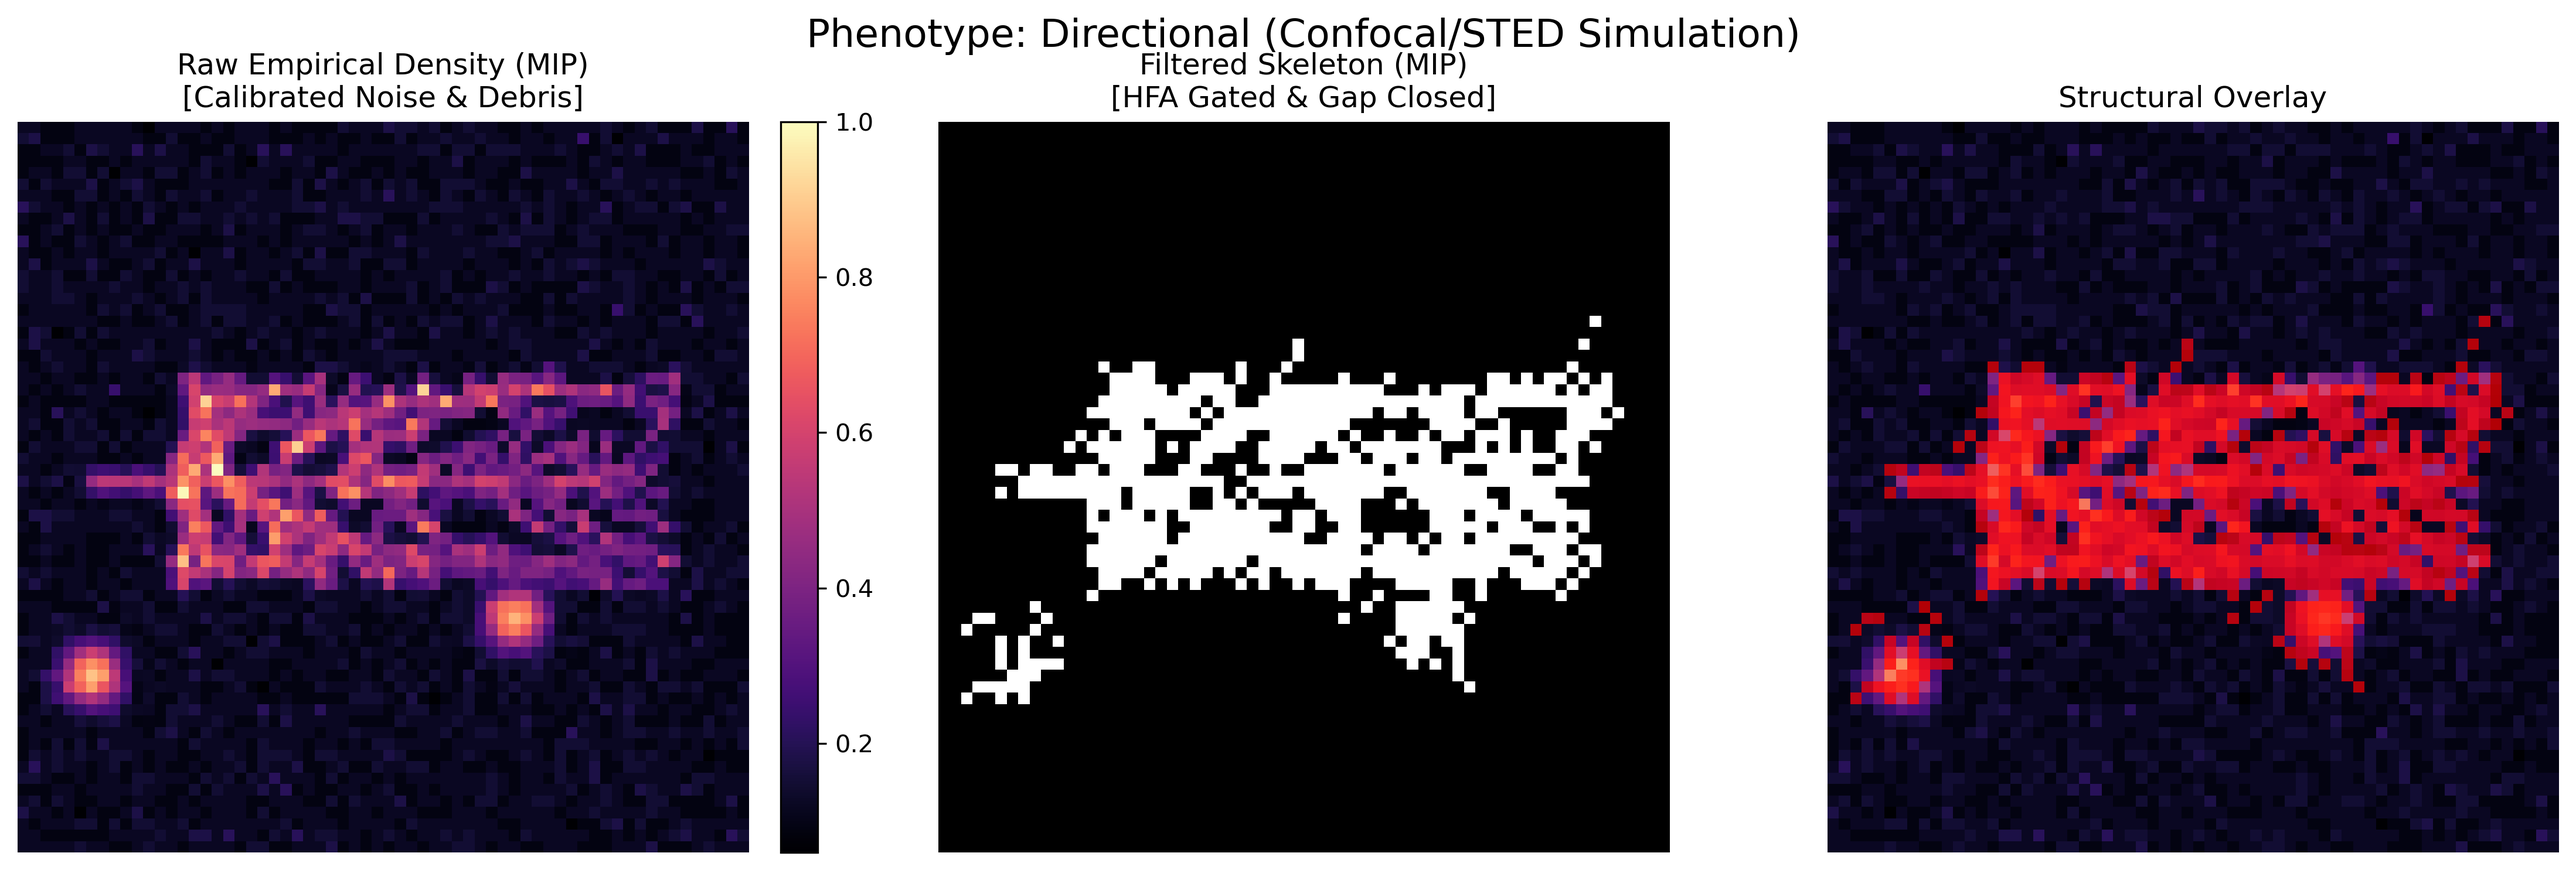
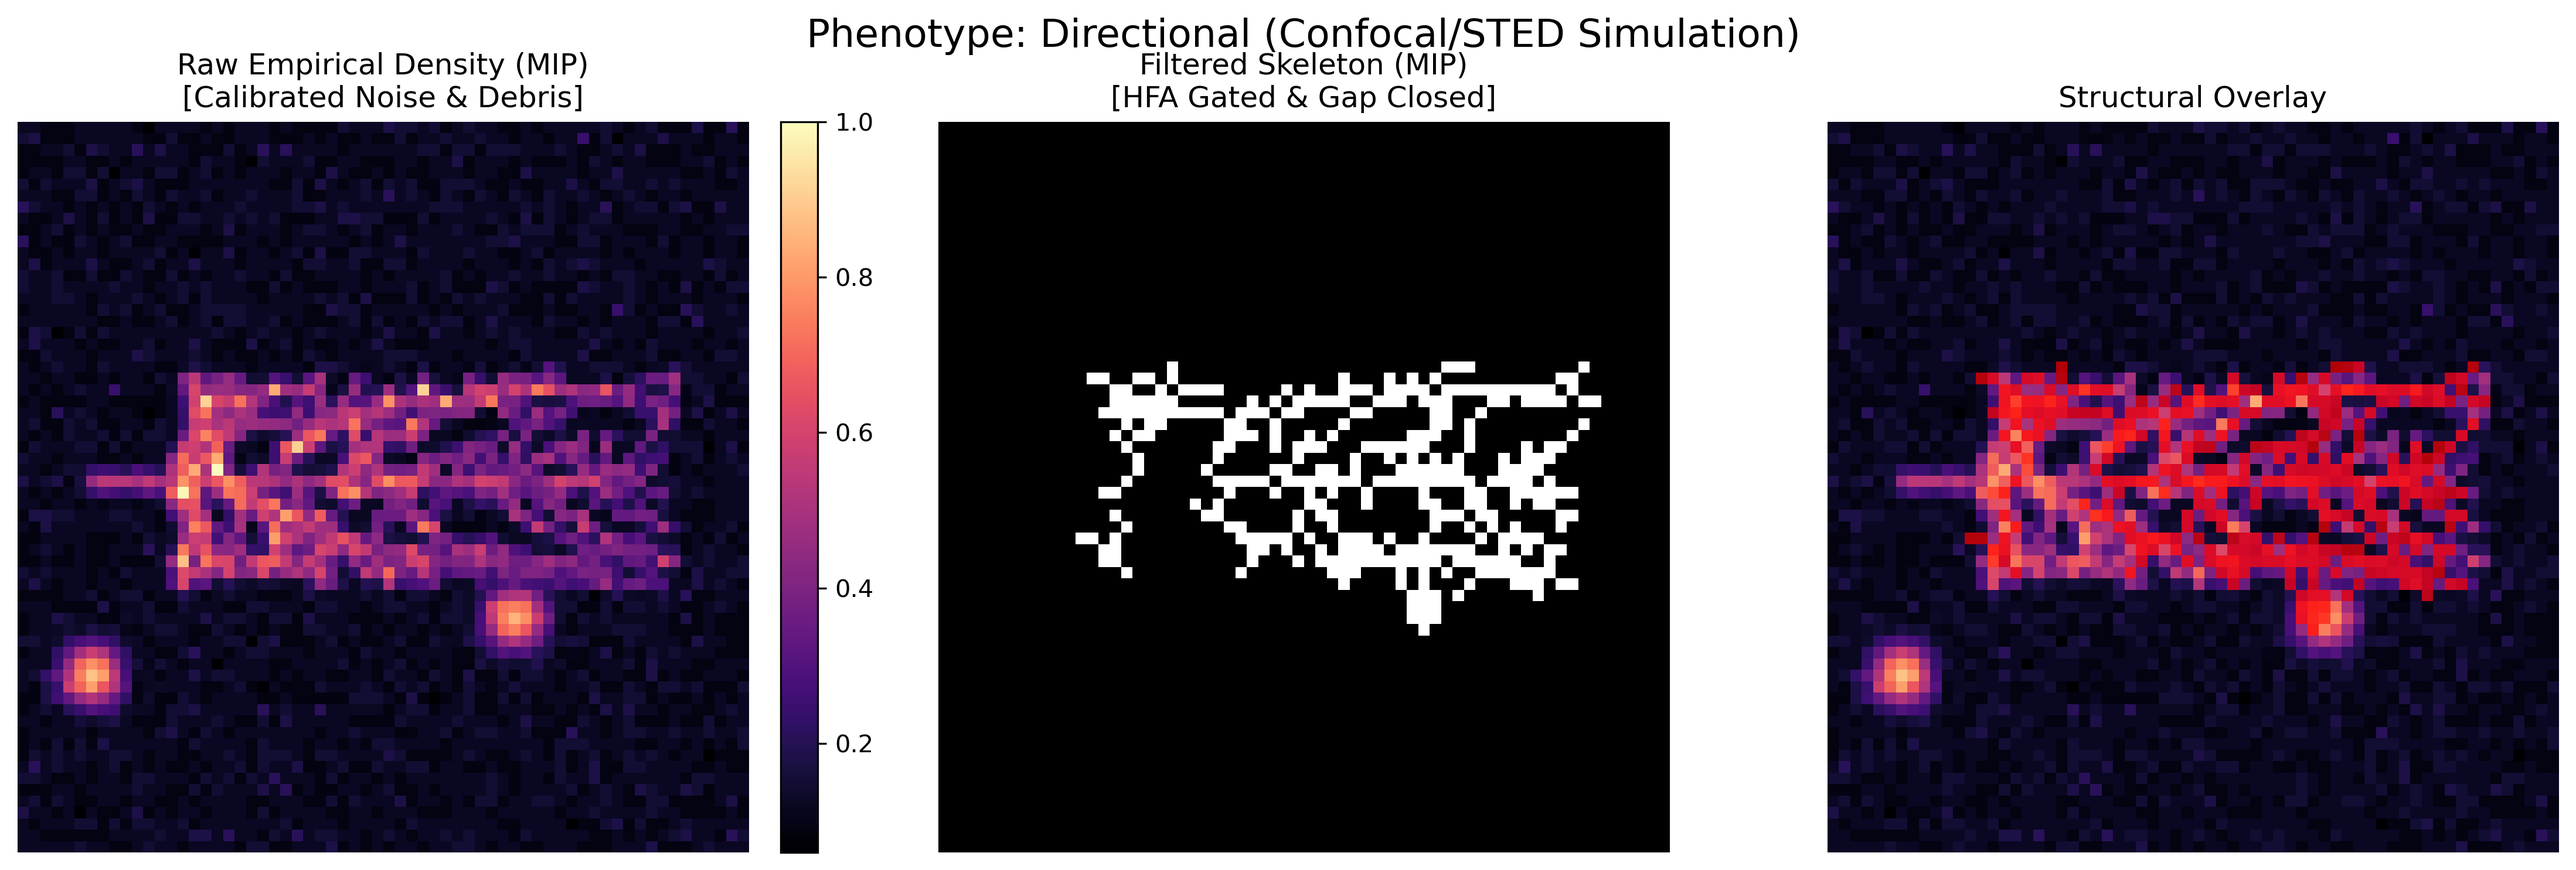
Much beter for directional and branched

diff --git a/src/analysis.py b/src/analysis.py
@@ -3,6 +3,7 @@ import scipy.ndimage as ndi
 import warnings
 from skimage.morphology import skeletonize, remove_small_objects
 from skimage.measure import block_reduce
+from skimage.filters import apply_hysteresis_threshold, threshold_multiotsu
 from dataclasses import dataclass
 from typing import Dict, Tuple
 import networkx as nx
@@ -32,7 +33,6 @@ class TopologyAnalyzer:
         self.ridge_sigma = ridge_sharpening_sigma
 
     def build_network_coherence_gated(self, skeleton: np.ndarray, spacing: Tuple[float, float, float], fiber_evecs: np.ndarray) -> nx.Graph:
-        """Graph construction with Tensor Coherence. Destroys orthogonal lattice fusions in dense bundles."""
         G = nx.Graph()
         coords = np.argwhere(skeleton)
         if len(coords) == 0: return G
@@ -53,7 +53,6 @@ class TopologyAnalyzer:
             
             v1, v2 = G.nodes[i]['vec'], G.nodes[j]['vec']
             
-            # Relaxed to 0.3 (~72 degrees) to allow sharp biological curves, but reject 90-degree bundle fusions
             if abs(np.dot(edge_vec, v1)) > 0.30 and abs(np.dot(edge_vec, v2)) > 0.30:
                 G.add_edge(i, j)
         return G
@@ -71,7 +70,10 @@ class TopologyAnalyzer:
             p_arr = np.array([pos[n] for n in comp])
             
             span = np.linalg.norm(np.max(p_arr, axis=0) - np.min(p_arr, axis=0))
-            if span < min_path_len:
+            node_count = len(comp)
+            density_ratio = node_count / (span + 1e-5)
+            
+            if span < min_path_len or density_ratio > 3.0:
                 to_remove.extend(comp)
                 
         G.remove_nodes_from(to_remove)
@@ -135,6 +137,7 @@ class HessianAnalyzer:
         max_vesselness_map = np.zeros_like(volume)
         cross_evec_map = np.zeros(volume.shape + (volume.ndim,))
         fiber_evec_map = np.zeros(volume.shape + (volume.ndim,))
+        
         BETA = 0.5 
         
         for sigma in self.sigmas:
@@ -148,14 +151,26 @@ class HessianAnalyzer:
             idx1, idx2, idx3 = sort_idx[:, 0], sort_idx[:, 1], sort_idx[:, 2]
             l1, l2, l3 = evals[row_idx, idx1], evals[row_idx, idx2], evals[row_idx, idx3]
             
-            # Geometric tolerance relaxed to 0.01 to prevent topological breakage directly at bifurcations
             valid_structure = (l2 < 1e-2) & (l3 < 1e-2)
             
             rb = np.abs(l1) / (np.sqrt(np.abs(l2 * l3)) + 1e-10)
+            p_blob = np.exp(-(rb**2) / (2 * BETA**2))
             
-            # Absolute Shape Probability: Removes global intensity penalty (S-term) to save fiber tails
+            S = np.sqrt(l1**2 + l2**2 + l3**2)
+            valid_S = S[valid_structure]
+            
+            if len(valid_S) > 0:
+                # Pre-Analysis: Calculate robust statistical spread of curvature magnitudes
+                median_S = np.median(valid_S)
+                mad_S = np.median(np.abs(valid_S - median_S))
+                # Scale dynamically to the empirical noise floor of the specific phenotype
+                c = median_S + (1.4826 * mad_S) + 1e-6
+                p_structure = 1.0 - np.exp(-(S**2) / (2 * c**2))
+            else:
+                p_structure = np.zeros_like(S)
+            
             vesselness = np.zeros_like(hfa_vals)
-            v_vals = hfa_vals[valid_structure] * np.exp(-(rb[valid_structure]**2) / (2 * BETA**2))
+            v_vals = hfa_vals[valid_structure] * p_blob[valid_structure] * p_structure[valid_structure]
             vesselness[valid_structure] = v_vals
             
             current_v = np.zeros_like(volume)
@@ -250,9 +265,9 @@ class DensityVolumeAnalyzer:
         self.expected_fiber_radius = expected_fiber_radius
         self.macro_scale_fraction = macro_scale_fraction
         
-        s1 = max(0.5, expected_fiber_radius * 0.8)
-        s2 = max(1.0, expected_fiber_radius * 1.5)
-        s3 = max(2.0, expected_fiber_radius * 2.5)
+        s1 = max(0.5, expected_fiber_radius * 0.5)
+        s2 = max(1.0, expected_fiber_radius * 1.0)
+        s3 = max(1.5, expected_fiber_radius * 1.5) 
         
         self.hessian_analyzer = HessianAnalyzer(sigmas=(s1, s2, s3))
         self.tensor_macro = StructureTensorAnalyzer(inner_sigma=expected_fiber_radius)
@@ -267,7 +282,6 @@ class DensityVolumeAnalyzer:
         dz, dy, dx = evecs[z, y, x, 0], evecs[z, y, x, 1], evecs[z, y, x, 2]
         
         val_center = field[z, y, x]
-        # Tri-linear sub-voxel sampling
         val_p = ndi.map_coordinates(field, [z+dz, y+dy, x+dx], order=1, mode='constant', cval=0.0)
         val_m = ndi.map_coordinates(field, [z-dz, y-dy, x-dx], order=1, mode='constant', cval=0.0)
         
@@ -310,7 +324,6 @@ class DensityVolumeAnalyzer:
         crop_vol = volume[bbox]
         denoised = ndi.gaussian_filter(crop_vol, sigma=0.5)
         
-        # 1. Rigorous MAD Noise Floor Formulation
         bg_median = np.median(denoised)
         mad = np.median(np.abs(denoised - bg_median))
         signal_floor = max(bg_median + 3 * mad, 1e-4)
@@ -318,14 +331,25 @@ class DensityVolumeAnalyzer:
         
         if not np.any(base_mask): return self._empty_result(volume)
             
-        # 2. Geometric Shape Extraction
         v_map, cross_ev, fiber_ev = self.hessian_analyzer.compute_multiscale(denoised, base_mask, voxel_spacing)
-        
-        # 3. VESSELNESS-NMS: Thinning the geometric probability directly guarantees intensity invariance.
         nms_v = self._apply_directional_nms(v_map, cross_ev, base_mask)
         
-        # 4. Universal shape gate. 0.05 maintains connectivity deep into the noise floor.
-        mask_crop = nms_v > 0.05
+        # Pre-Analysis: Unsupervised 3-class separation via Multi-Otsu
+        active_v = nms_v[nms_v > 1e-5]
+        if len(active_v) > 100:
+            try:
+                # Partitions field into: Background Noise, Faint Fibers, Dense Cores
+                thresholds = threshold_multiotsu(active_v, classes=3)
+                low_thresh = thresholds[0]
+                high_thresh = thresholds[1]
+            except ValueError:
+                # Fallback for highly homogeneous density spaces
+                low_thresh = np.percentile(active_v, 40)
+                high_thresh = np.percentile(active_v, 85)
+        else:
+            low_thresh, high_thresh = 0.05, 0.15
+            
+        mask_crop = apply_hysteresis_threshold(nms_v, low=low_thresh, high=high_thresh)
         mask_crop = self._directional_gap_bridging(mask_crop, fiber_ev)
         
         min_vol = max(32, int((self.expected_fiber_radius ** 3) * 100))
@@ -338,7 +362,6 @@ class DensityVolumeAnalyzer:
         
         skeleton_raw = skeletonize(mask_crop)
         
-        # 5. Top-Down Filtering
         graph = self.topology_analyzer.build_network_coherence_gated(skeleton_raw, voxel_spacing, fiber_ev)
         graph = self.topology_analyzer.filter_by_path_persistence(graph, self.expected_fiber_radius * 10.0)
         graph = self.topology_analyzer.prune_skeleton_graph(graph, self.expected_fiber_radius * 3.0)

diff --git a/showcase_output/empirical_results_table.tex b/showcase_output/empirical_results_table.tex
@@ -6,9 +6,9 @@
 \hline
 \textbf{Phenotype} & \textbf{Vol \%} & \textbf{HFA} & \textbf{Macro FA} & \textbf{Valency} & \textbf{Bifurc \%} & \textbf{Cross \%} \\
 \hline
-Highly Branched & 7.627 & 0.644 & 0.409 & 3.268 & 24.80 & 33.97 \\
-Directional & 3.513 & 0.654 & 0.470 & 3.010 & 24.41 & 27.67 \\
-Random Tangle & 5.997 & 0.692 & 0.483 & 3.355 & 24.59 & 36.89 \\
+Highly Branched & 1.184 & 0.430 & 0.411 & 2.482 & 33.97 & 9.41 \\
+Directional & 0.976 & 0.609 & 0.485 & 2.911 & 29.98 & 27.82 \\
+Random Tangle & 1.355 & 0.392 & 0.480 & 2.498 & 28.83 & 13.81 \\
 \hline
 \end{tabular}
 \vspace{1ex}
